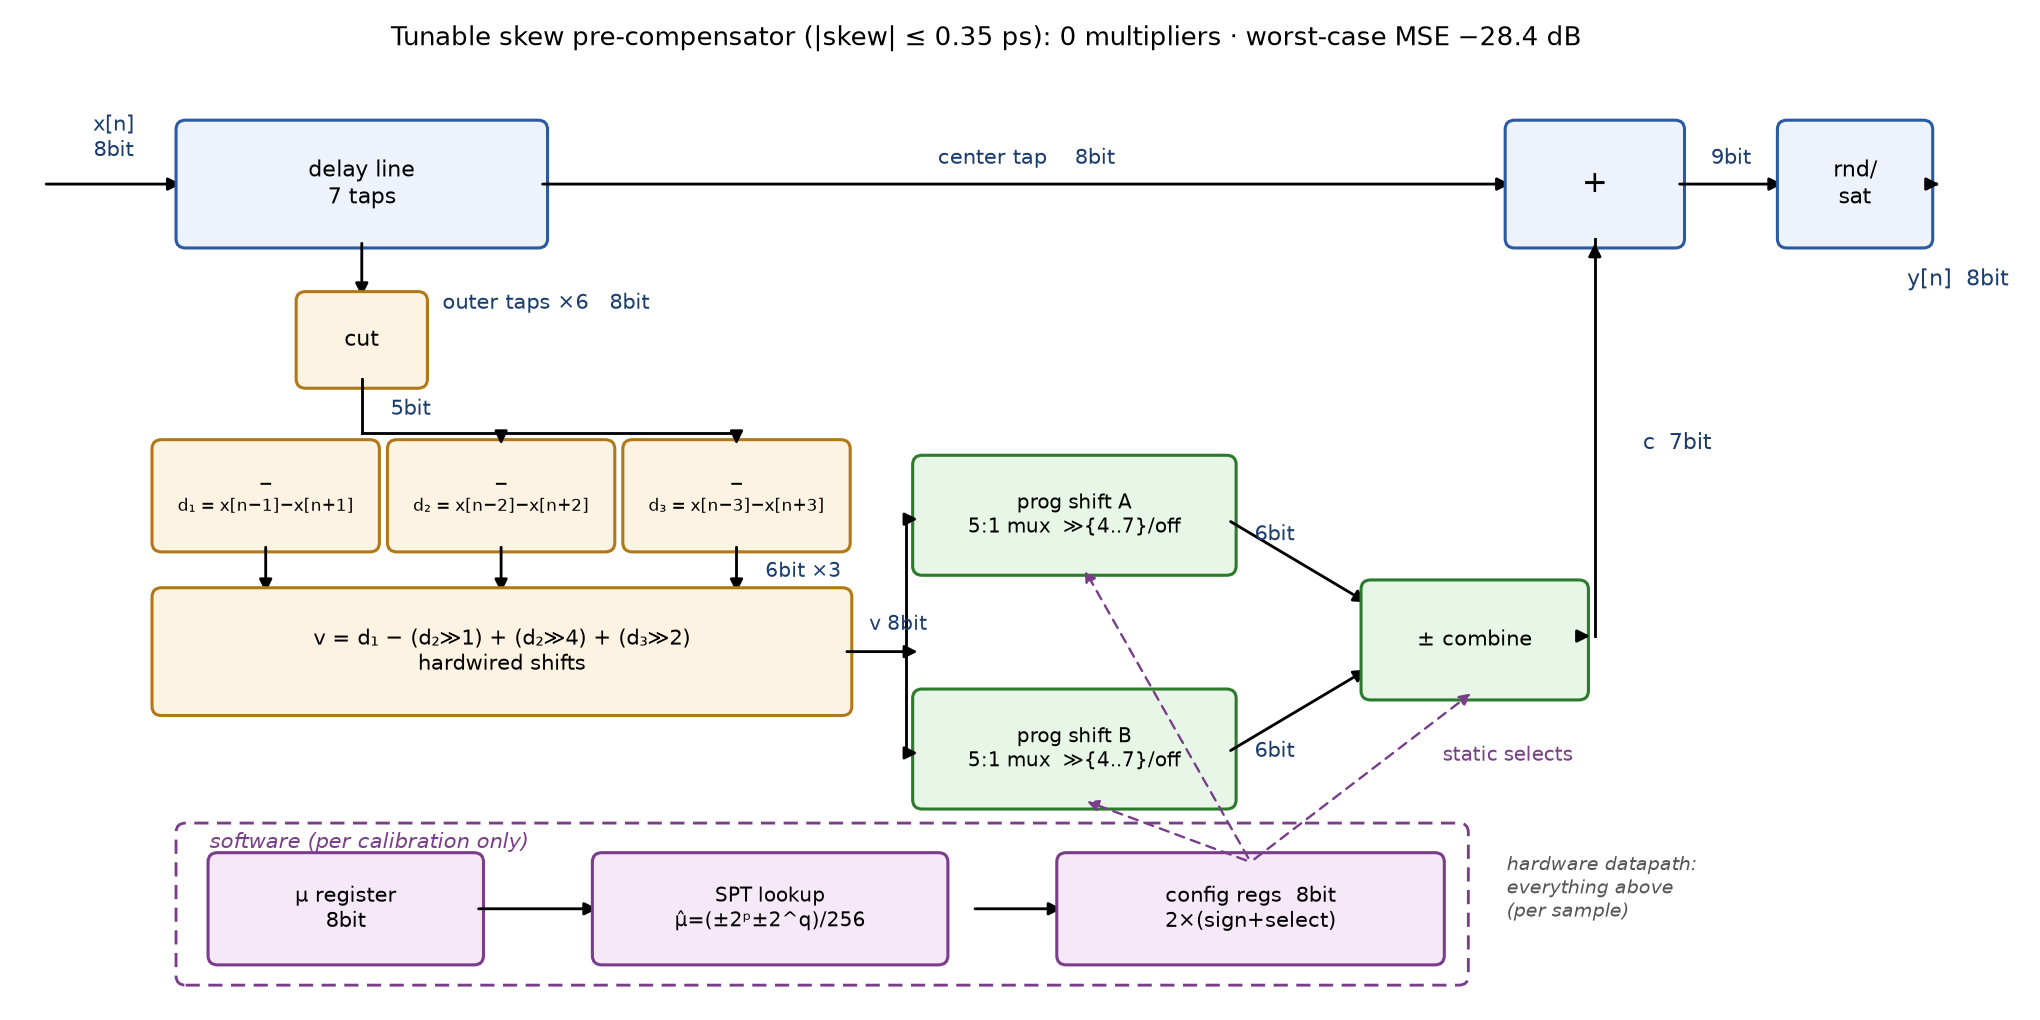
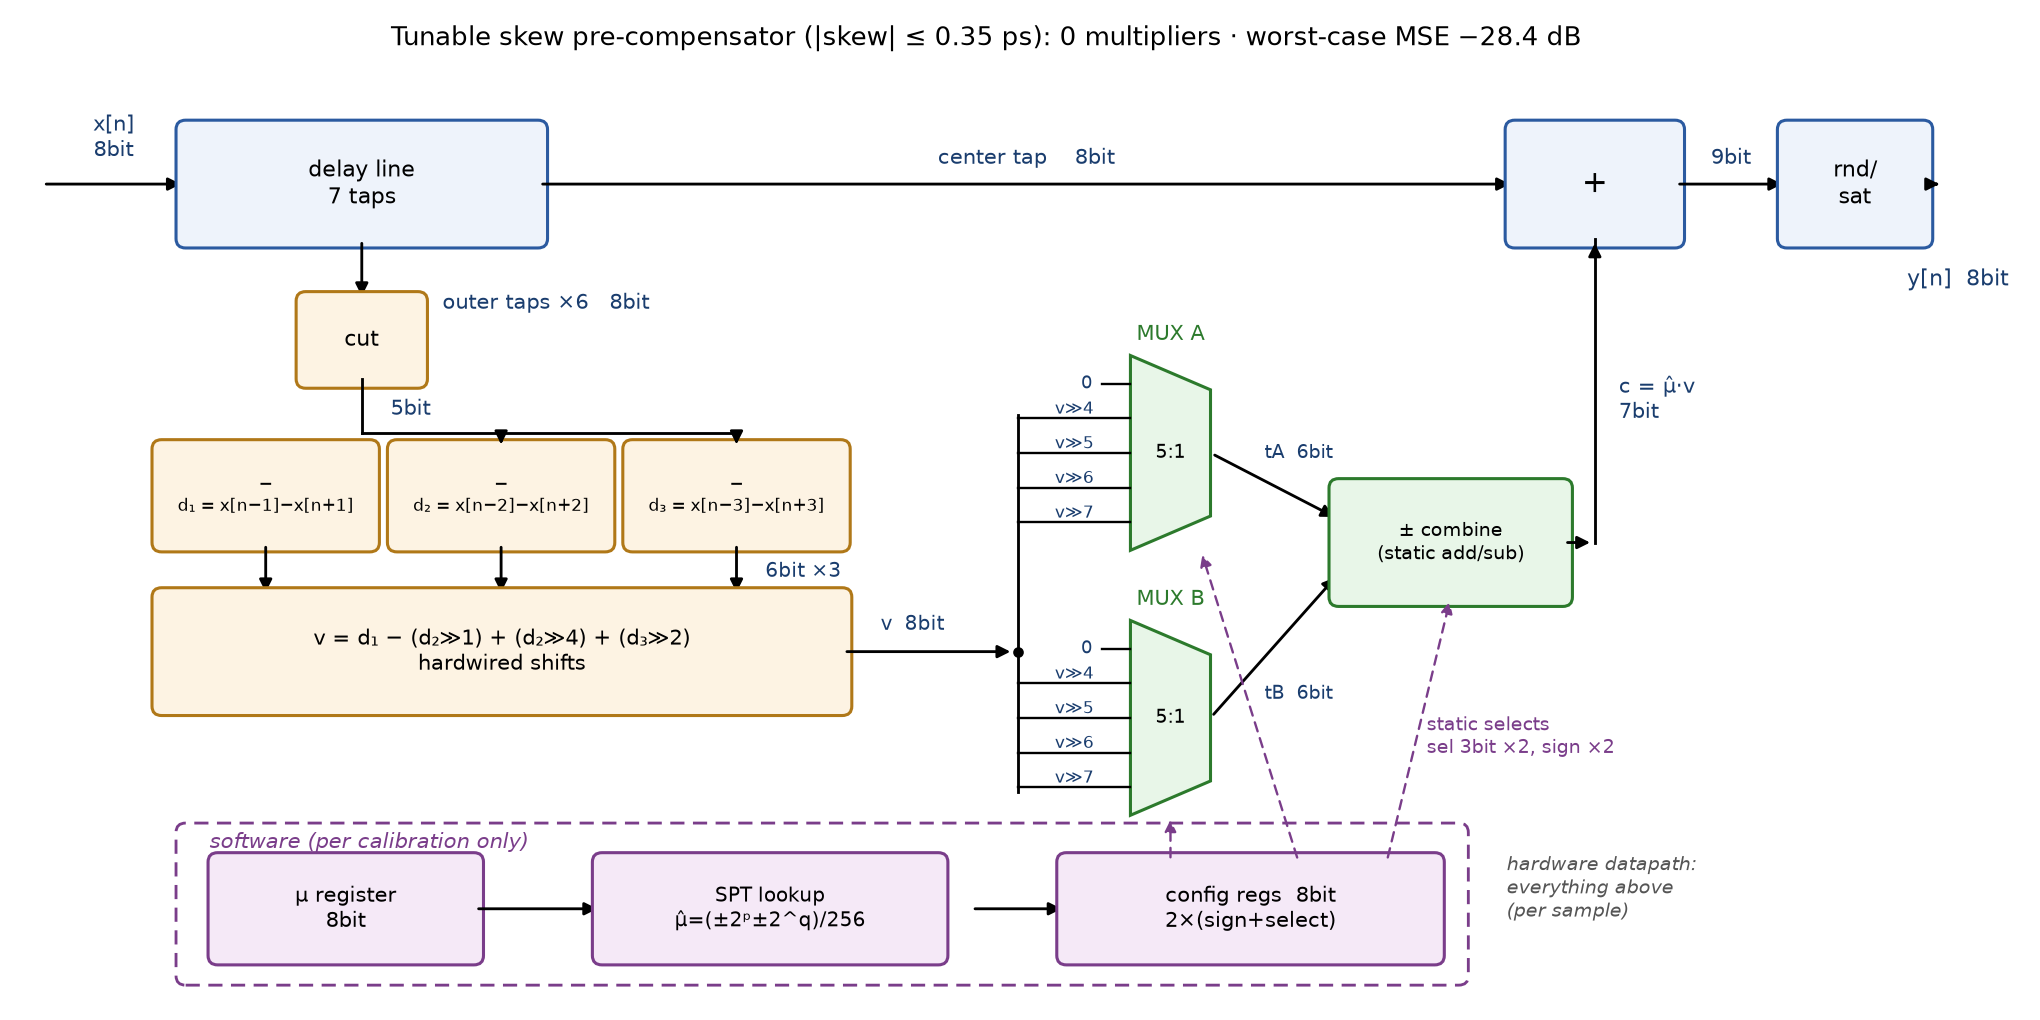
Block diagram: draw programmable shifts as explicit 5:1 mux symbols
Trapezoid mux symbols with the five inputs (0, v>>4..v>>7) drawn
individually off the shared v bus, select lines entering the mux
bottoms from the config regs.

Claude-Session: https://claude.ai/code/session_01UbEyxzdQC9DticNgWAgSg7

diff --git a/skew-precomp/make_blockdiagram.py b/skew-precomp/make_blockdiagram.py
@@ -61,23 +61,49 @@ ax.plot([2.1, 2.1], [3.95, 3.6], color="k", lw=1.2)
 box(0.85, 1.85, 4.25, 0.7,
     "v = d₁ − (d₂≫1) + (d₂≫4) + (d₃≫2)"
     "\nhardwired shifts", fs=8.8, **ORANGE)
-arrow((5.1, 2.2), (5.6, 2.2), "v 8bit", loff=(0.1, 0.14), fs=8.5)
+arrow((5.1, 2.2), (6.18, 2.2), "v  8bit", loff=(-0.1, 0.14), fs=8.5)
 
-# ---------- programmable shifts ----------
-box(5.6, 2.75, 1.9, 0.65, "prog shift A\n5:1 mux  ≫{4..7}/off",
-    fs=8.5, **GREEN)
-box(5.6, 1.25, 1.9, 0.65, "prog shift B\n5:1 mux  ≫{4..7}/off",
-    fs=8.5, **GREEN)
-ax.plot([5.5, 5.5], [1.55, 3.05], color="k", lw=1.2)
-arrow((5.5, 3.05), (5.6, 3.05))
-arrow((5.5, 1.55), (5.6, 1.55))
-arrow((7.5, 3.05), (8.4, 2.5), "6bit", loff=(-0.15, 0.14))
-arrow((7.5, 1.55), (8.4, 2.1), "6bit", loff=(-0.15, -0.3))
-box(8.4, 1.95, 1.3, 0.65, "± combine", fs=9, **GREEN)
-arrow((9.7, 2.3), (9.8, 2.3))
-ax.plot([9.8, 9.8], [2.3, 4.85], color="k", lw=1.2)
+# ---------- programmable shifts: explicit 5:1 muxes ----------
+from matplotlib.patches import Polygon
+
+
+def mux(x, y, h, name):
+    """Trapezoid 5:1 mux; returns (input ys, output point, sel point)."""
+    w = 0.5
+    ax.add_patch(Polygon([(x, y), (x, y + h), (x + w, y + h - 0.22),
+                          (x + w, y + 0.22)], closed=True,
+                         fc=GREEN["fc"], ec=GREEN["ec"], lw=1.3))
+    ax.text(x + w / 2, y + h / 2, "5:1", fontsize=8, ha="center",
+            va="center")
+    ax.text(x + w / 2, y + h + 0.1, name, fontsize=8.8, ha="center",
+            color="#2c7a2c")
+    ys = [y + h - 0.18 - i * (h - 0.36) / 4 for i in range(5)]
+    return ys, (x + w, y + h / 2), (x + w / 2, y)
+
+
+VBUS = 6.2
+ax.plot([VBUS, VBUS], [1.30, 3.72], color="k", lw=1.2)
+ax.plot(VBUS, 2.2, "ko", ms=3.5)
+
+for name, ybot in (("MUX A", 2.85), ("MUX B", 1.15)):
+    ys, out, sel = mux(6.9, ybot, 1.25, name)
+    ax.text(6.66, ys[0], "0", fontsize=7.8, ha="right", va="center",
+            color="#1a3d6e")
+    ax.plot([6.72, 6.9], [ys[0], ys[0]], color="k", lw=1.0)
+    for i, sh in enumerate(("≫4", "≫5", "≫6", "≫7"), start=1):
+        ax.plot([VBUS, 6.9], [ys[i], ys[i]], color="k", lw=1.0)
+        ax.text(6.55, ys[i] + 0.03, f"v{sh}", fontsize=7.4, ha="center",
+                color="#1a3d6e")
+    if name == "MUX A":
+        arrow(out, (8.2, 3.05), "tA  6bit", loff=(0.15, 0.18), fs=8)
+    else:
+        arrow(out, (8.2, 2.7), "tB  6bit", loff=(0.15, -0.34), fs=8)
+
+box(8.2, 2.55, 1.4, 0.7, "± combine\n(static add/sub)", fs=8.2, **GREEN)
+arrow((9.6, 2.9), (9.8, 2.9))
+ax.plot([9.8, 9.8], [2.9, 4.85], color="k", lw=1.2)
 arrow((9.8, 4.7), (9.8, 4.85))
-ax.text(10.1, 3.5, "c  7bit", fontsize=9.5, color="#1a3d6e")
+ax.text(9.95, 3.7, "c = μ̂·v\n7bit", fontsize=8.8, color="#1a3d6e")
 
 # ---------- config ----------
 ax.add_patch(FancyBboxPatch((1.0, 0.12), 7.95, 0.92,
@@ -93,11 +119,14 @@ box(6.5, 0.25, 2.3, 0.6, "config regs  8bit\n2×(sign+select)", fs=8.8,
     **PURPLE)
 ax.text(9.25, 0.5, "hardware datapath:\neverything above\n(per sample)",
         fontsize=8.2, color="#555", style="italic")
-for tgt in ((6.6, 1.25), (6.6, 2.75), (9.05, 1.95)):
-    ax.add_patch(FancyArrowPatch((7.65, 0.85), tgt, arrowstyle="-|>",
+for src, tgt in (((7.15, 0.85), (7.15, 1.15)),
+                 ((7.95, 0.85), (7.34, 2.85)),
+                 ((8.5, 0.85), (8.9, 2.55))):
+    ax.add_patch(FancyArrowPatch(src, tgt, arrowstyle="-|>",
                                  mutation_scale=10, lw=1.0, color="#7a3d8a",
                                  linestyle=(0, (4, 3))))
-ax.text(8.85, 1.5, "static selects", fontsize=8.5, color="#7a3d8a")
+ax.text(8.75, 1.55, "static selects\nsel 3bit ×2, sign ×2", fontsize=8,
+        color="#7a3d8a")
 
 ax.set_title("Tunable skew pre-compensator (|skew| ≤ 0.35 ps): "
              "0 multipliers · worst-case MSE −28.4 dB", fontsize=11)
